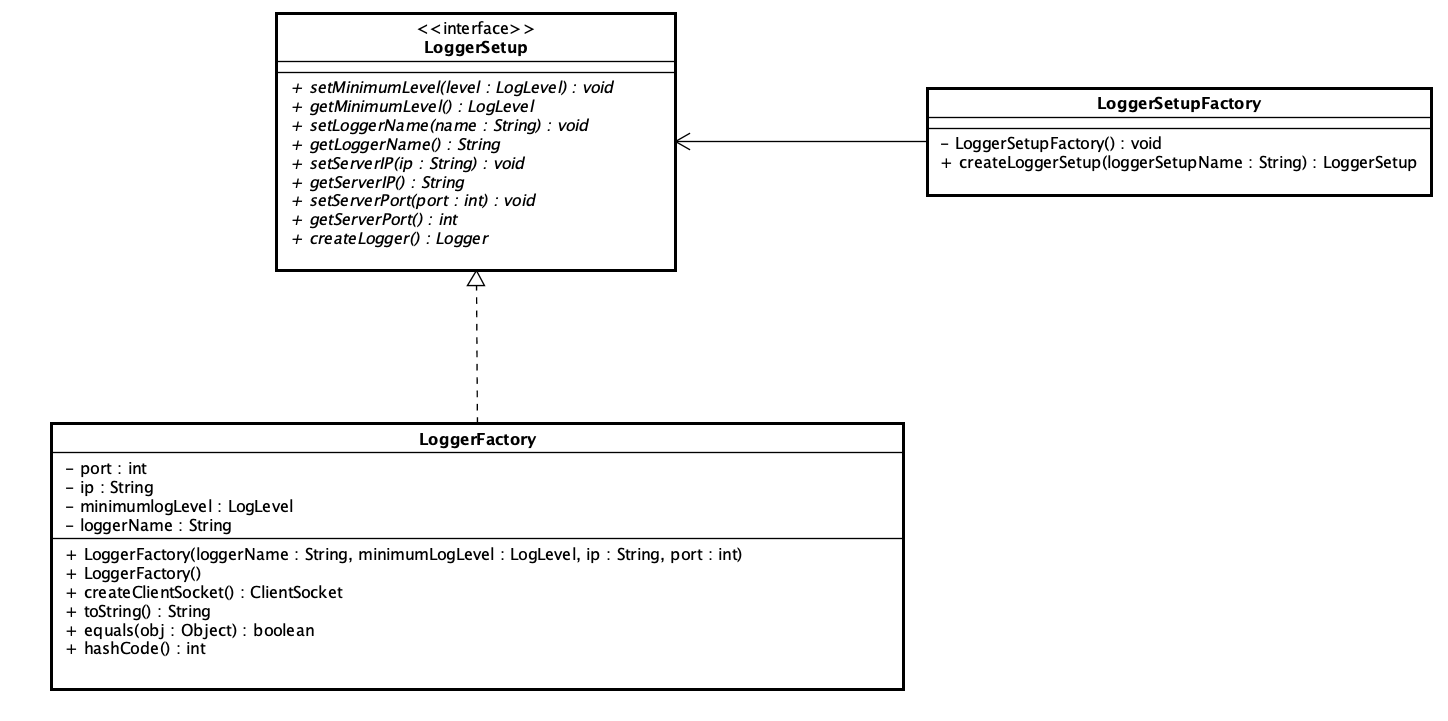
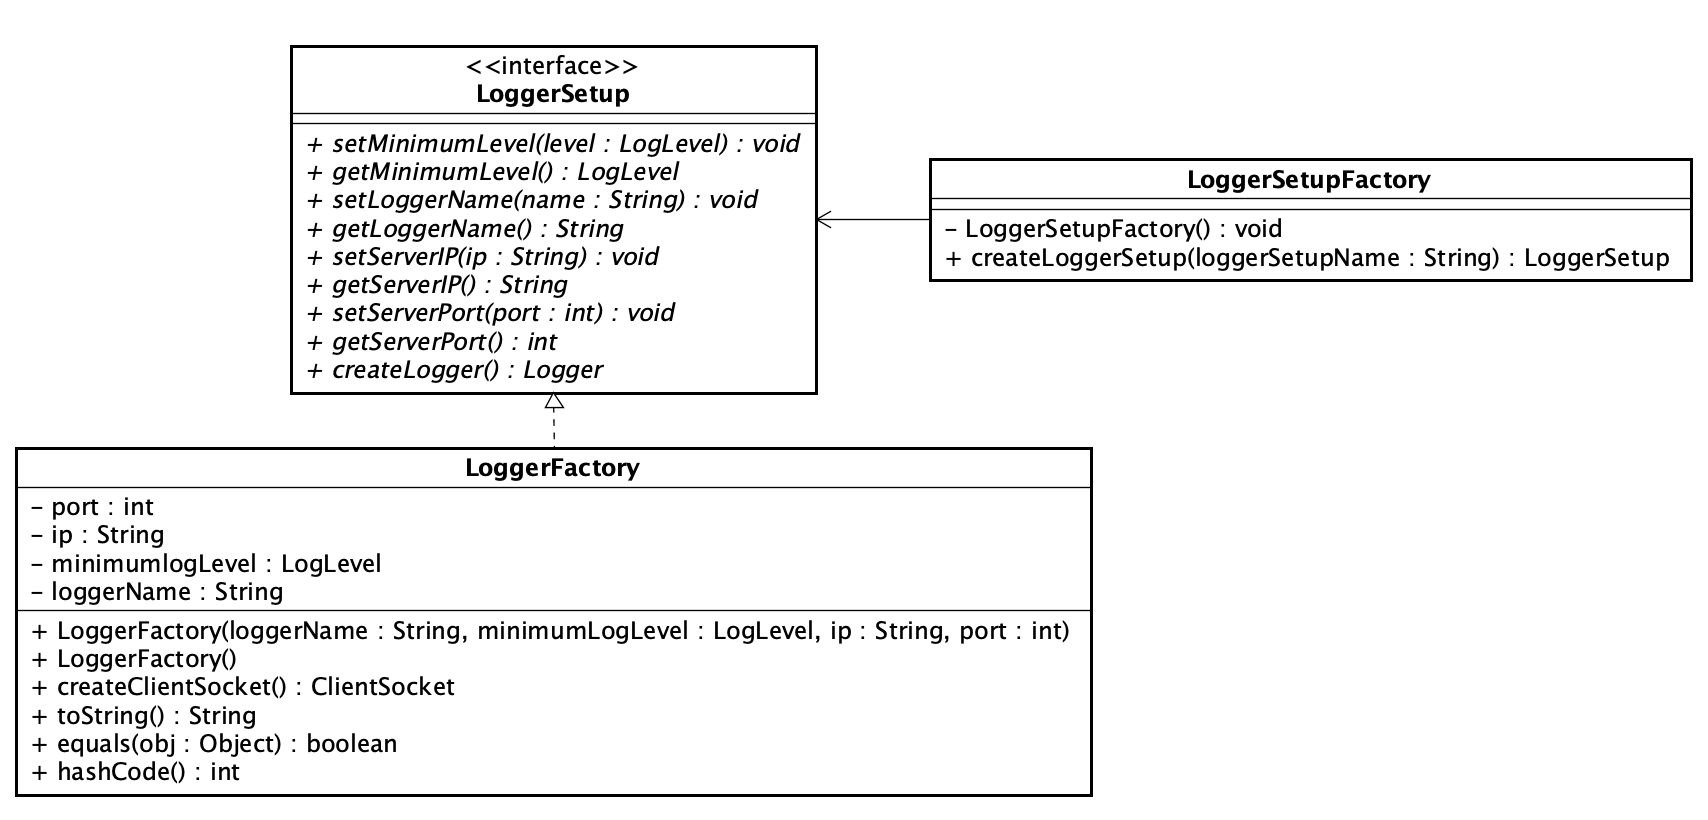
external interfaces documentation started

Changed region(s): [[0.0, 0.0, 0.9945, 0.9764]]

diff --git a/00_Doc/3_Schnittstellen/Schnittstellen.tex b/00_Doc/3_Schnittstellen/Schnittstellen.tex
@@ -17,7 +17,21 @@ Die folgenden externen Schnittstellen sind im Projekt enthalten:
 \end{figure}
 Das Logger-Interface, über welches verschiedenste Applikationen Log-Einträge erfassen können enthält insgesamt acht Methoden. Für die einzelnen Log-Levels existieren eigene Methoden. Des Weiteren enthält das Logger-Interface eine Methode zur Setzung des minimalen Log-Levels. 
 \subsubsection{LoggerSetup}
+\begin{figure}[H]
+	\centering
+	\includegraphics[width=0.5\textwidth]{3_Schnittstellen/Bilder/loggerSetupInterface.png}
+	\caption{LoggerSetup Klassendiagram}
+	\label{fig:LoggerSetup Klassendiagramm}
+\end{figure}
+Das LoggerSetup-Interface enthält neun Methoden, welche für die Erstellung eines voll funktionsfähigen Loggers benötigt werden. So muss definiert werden, wie die Server-IP-Adresse und dessen Port gesetzt werden kann. Des Weiteren kann bereits definiert werden, welcher minimale Log-Level der Logger zu Beginn besitzt. Der Logger-Name soll ebenfalls über eine Setter-Methode gesetzt werden können. Die wichtigste Methode ist die Factory-Methode createLogger, welche einen Logger vom Interfacetyp Logger zurückgeben soll.
 \subsubsection{LogLevel}
+\begin{figure}[H]
+	\centering
+	\includegraphics[width=0.2\textwidth]{3_Schnittstellen/Bilder/logLevel.png}
+	\caption{Log-Level Klassendiagram}
+	\label{fig:Log-Level Klassendiagramm}
+\end{figure}
+Die Log-Level Enumeration definiert die möglichen Log-Level, durch die klare Definition der Log-Level ist ein Austausch der Logger-Komponente möglich. Die Enumeration enthält ebenfalls einen numerischen Wert, um die Überprüfung des minimalen Log-Level möglichst einfach und performant zu gestalten.
 \subsubsection{StringPersistor}
 
 \subsection{Interne Schnittstellen}

diff --git a/00_Doc/main.tex b/00_Doc/main.tex
@@ -63,6 +63,8 @@
 		\hline
 		0.6 & 26. Okt. 2020 & Sandro Hunkeler & Daten (Mengengerüst \& Strukturen), LoggerSetup und StringPersistorFile dokumentiert & Fertig \\
 		\hline
+		0.7 & 27. Okt. 2020 & Dominik Leimgruber & Dokumentation der externen Schnittstellen & In Arbeit \\
+		\hline
 	\end{tabularx}
 \end{center}
 \listoffigures
